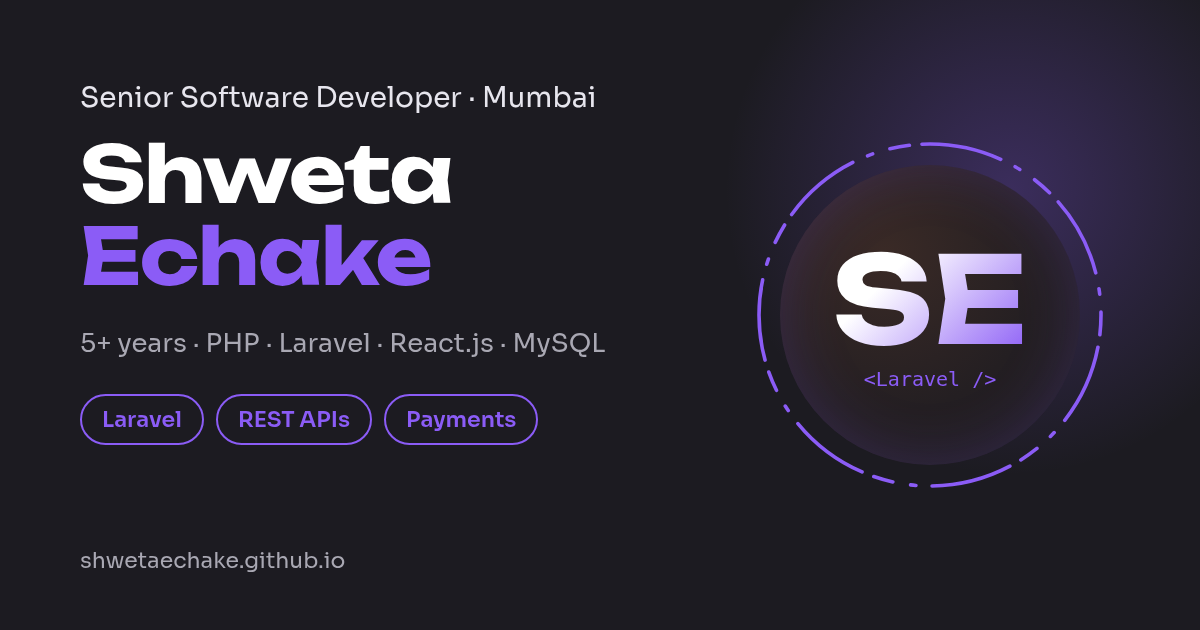
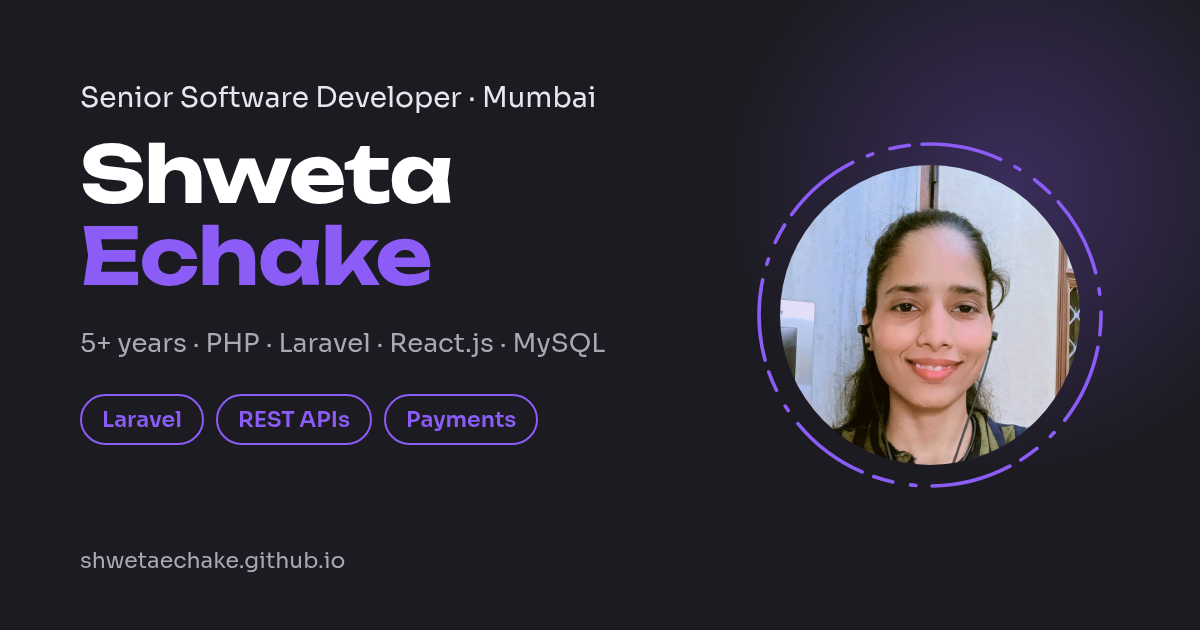
Home and share image: Shweta's photo in the ring instead of the SE monogram

Changed region(s): [[0.6475, 0.2413, 0.925, 0.754]]

diff --git a/index.html b/index.html
@@ -27,7 +27,7 @@
     <link rel="preconnect" href="https://fonts.googleapis.com">
     <link rel="preconnect" href="https://fonts.gstatic.com" crossorigin>
     <link href="https://fonts.googleapis.com/css2?family=Unbounded:wght@500;600;700&family=Sora:wght@300;400;500;600&display=swap" rel="stylesheet">
-    <link rel="stylesheet" href="styles.css?v=202610281418">
+    <link rel="stylesheet" href="styles.css?v=202610281440">
 </head>
 <body>
     <header class="site-header">
@@ -69,12 +69,13 @@
                         </ul>
                     </div>
                 </div>
-                <div class="hero-art" aria-hidden="true">
-                    <svg class="ring" viewBox="0 0 400 400"><circle cx="200" cy="200" r="190" /></svg>
-                    <div class="monogram">
-                        <span class="mono-text">SE</span>
-                        <span class="mono-sub">&lt;Laravel /&gt;</span>
-                    </div>
+                <div class="hero-art">
+                    <svg class="ring" viewBox="0 0 400 400" aria-hidden="true"><circle cx="200" cy="200" r="190" /></svg>
+                    <picture class="portrait">
+                        <source srcset="images/shweta.webp" type="image/webp">
+                        <img src="images/shweta.jpg" width="720" height="720" alt="Shweta Echake" fetchpriority="high">
+                    </picture>
+                    <span class="portrait-badge" aria-hidden="true">&lt;Laravel /&gt;</span>
                 </div>
             </div>
 
@@ -491,6 +492,6 @@
         <svg viewBox="0 0 24 24" aria-hidden="true"><path d="M12 2a10 10 0 0 0-8.6 15.1L2 22l5-1.3A10 10 0 1 0 12 2Zm0 18.2c-1.5 0-3-.4-4.3-1.2l-.3-.2-3 .8.8-2.9-.2-.3A8.2 8.2 0 1 1 12 20.2Zm4.5-6.1c-.2-.1-1.5-.7-1.7-.8-.2-.1-.4-.1-.6.1l-.8 1c-.1.2-.3.2-.5.1a6.7 6.7 0 0 1-3.3-2.9c-.3-.4.2-.4.7-1.3.1-.2 0-.3 0-.4l-.8-1.8c-.2-.5-.4-.4-.6-.4h-.5a1 1 0 0 0-.7.3 3 3 0 0 0-.9 2.2c0 1.3.9 2.5 1.1 2.7.1.2 1.8 2.8 4.4 3.9 1.6.7 2.3.8 3.1.6.5-.1 1.5-.6 1.7-1.2.2-.6.2-1.1.2-1.2-.1-.1-.3-.2-.5-.3Z"/></svg>
     </a>
 
-    <script src="script.js?v=202610281418"></script>
+    <script src="script.js?v=202610281440"></script>
 </body>
 </html>

diff --git a/jsga.html b/jsga.html
@@ -27,7 +27,7 @@
     <link rel="preconnect" href="https://fonts.googleapis.com">
     <link rel="preconnect" href="https://fonts.gstatic.com" crossorigin>
     <link href="https://fonts.googleapis.com/css2?family=Unbounded:wght@500;600;700&family=Sora:wght@300;400;500;600&display=swap" rel="stylesheet">
-    <link rel="stylesheet" href="styles.css?v=202610281418">
+    <link rel="stylesheet" href="styles.css?v=202610281440">
 </head>
 <body class="case-page">
     <header class="site-header">
@@ -190,6 +190,6 @@
         <svg viewBox="0 0 24 24" aria-hidden="true"><path d="M12 2a10 10 0 0 0-8.6 15.1L2 22l5-1.3A10 10 0 1 0 12 2Zm0 18.2c-1.5 0-3-.4-4.3-1.2l-.3-.2-3 .8.8-2.9-.2-.3A8.2 8.2 0 1 1 12 20.2Zm4.5-6.1c-.2-.1-1.5-.7-1.7-.8-.2-.1-.4-.1-.6.1l-.8 1c-.1.2-.3.2-.5.1a6.7 6.7 0 0 1-3.3-2.9c-.3-.4.2-.4.7-1.3.1-.2 0-.3 0-.4l-.8-1.8c-.2-.5-.4-.4-.6-.4h-.5a1 1 0 0 0-.7.3 3 3 0 0 0-.9 2.2c0 1.3.9 2.5 1.1 2.7.1.2 1.8 2.8 4.4 3.9 1.6.7 2.3.8 3.1.6.5-.1 1.5-.6 1.7-1.2.2-.6.2-1.1.2-1.2-.1-.1-.3-.2-.5-.3Z"/></svg>
     </a>
 
-    <script src="script.js?v=202610281418"></script>
+    <script src="script.js?v=202610281440"></script>
 </body>
 </html>

diff --git a/varpe-flower.html b/varpe-flower.html
@@ -27,7 +27,7 @@
     <link rel="preconnect" href="https://fonts.googleapis.com">
     <link rel="preconnect" href="https://fonts.gstatic.com" crossorigin>
     <link href="https://fonts.googleapis.com/css2?family=Unbounded:wght@500;600;700&family=Sora:wght@300;400;500;600&display=swap" rel="stylesheet">
-    <link rel="stylesheet" href="styles.css?v=202610281418">
+    <link rel="stylesheet" href="styles.css?v=202610281440">
 </head>
 <body class="case-page">
     <header class="site-header">
@@ -209,6 +209,6 @@
         <svg viewBox="0 0 24 24" aria-hidden="true"><path d="M12 2a10 10 0 0 0-8.6 15.1L2 22l5-1.3A10 10 0 1 0 12 2Zm0 18.2c-1.5 0-3-.4-4.3-1.2l-.3-.2-3 .8.8-2.9-.2-.3A8.2 8.2 0 1 1 12 20.2Zm4.5-6.1c-.2-.1-1.5-.7-1.7-.8-.2-.1-.4-.1-.6.1l-.8 1c-.1.2-.3.2-.5.1a6.7 6.7 0 0 1-3.3-2.9c-.3-.4.2-.4.7-1.3.1-.2 0-.3 0-.4l-.8-1.8c-.2-.5-.4-.4-.6-.4h-.5a1 1 0 0 0-.7.3 3 3 0 0 0-.9 2.2c0 1.3.9 2.5 1.1 2.7.1.2 1.8 2.8 4.4 3.9 1.6.7 2.3.8 3.1.6.5-.1 1.5-.6 1.7-1.2.2-.6.2-1.1.2-1.2-.1-.1-.3-.2-.5-.3Z"/></svg>
     </a>
 
-    <script src="script.js?v=202610281418"></script>
+    <script src="script.js?v=202610281440"></script>
 </body>
 </html>

diff --git a/404.html b/404.html
@@ -14,7 +14,7 @@
     <link rel="preconnect" href="https://fonts.googleapis.com">
     <link rel="preconnect" href="https://fonts.gstatic.com" crossorigin>
     <link href="https://fonts.googleapis.com/css2?family=Unbounded:wght@500;600;700&family=Sora:wght@300;400;500;600&display=swap" rel="stylesheet">
-    <link rel="stylesheet" href="/styles.css?v=202610281418">
+    <link rel="stylesheet" href="/styles.css?v=202610281440">
 </head>
 <body>
     <header class="site-header">
@@ -61,6 +61,6 @@
         <svg viewBox="0 0 24 24" aria-hidden="true"><path d="M12 2a10 10 0 0 0-8.6 15.1L2 22l5-1.3A10 10 0 1 0 12 2Zm0 18.2c-1.5 0-3-.4-4.3-1.2l-.3-.2-3 .8.8-2.9-.2-.3A8.2 8.2 0 1 1 12 20.2Zm4.5-6.1c-.2-.1-1.5-.7-1.7-.8-.2-.1-.4-.1-.6.1l-.8 1c-.1.2-.3.2-.5.1a6.7 6.7 0 0 1-3.3-2.9c-.3-.4.2-.4.7-1.3.1-.2 0-.3 0-.4l-.8-1.8c-.2-.5-.4-.4-.6-.4h-.5a1 1 0 0 0-.7.3 3 3 0 0 0-.9 2.2c0 1.3.9 2.5 1.1 2.7.1.2 1.8 2.8 4.4 3.9 1.6.7 2.3.8 3.1.6.5-.1 1.5-.6 1.7-1.2.2-.6.2-1.1.2-1.2-.1-.1-.3-.2-.5-.3Z"/></svg>
     </a>
 
-    <script src="/script.js?v=202610281418"></script>
+    <script src="/script.js?v=202610281440"></script>
 </body>
 </html>

diff --git a/styles.css b/styles.css
@@ -470,3 +470,13 @@ html:not(.js) .slider-nav { display: none; }
 :root[data-mode="light"] .mode-btn .sun { display: block; }
 :root[data-mode="light"] .mode-btn .moon { display: none; }
 @media (max-width: 767px) { .nav { gap: 8px; } .mode-btn { width: 40px; height: 40px; } }
+
+/* Hero photo inside the turning ring */
+.portrait { position: absolute; inset: 8%; display: block; border-radius: 50%; overflow: hidden; background: var(--card);
+    box-shadow: 0 0 0 6px var(--bg), 0 0 0 7px color-mix(in srgb, var(--accent) 35%, transparent), 0 24px 70px color-mix(in srgb, var(--accent) 22%, transparent); }
+.portrait img { display: block; width: 100%; height: 100%; object-fit: cover; }
+.portrait-badge {
+    position: absolute; left: 50%; bottom: 3%; transform: translateX(-50%); padding: 7px 14px; border-radius: 999px;
+    background: var(--accent); color: var(--on-accent); font: 600 14px/1 ui-monospace, Menlo, Consolas, monospace; white-space: nowrap;
+    box-shadow: 0 8px 20px rgba(0, 0, 0, .3);
+}
